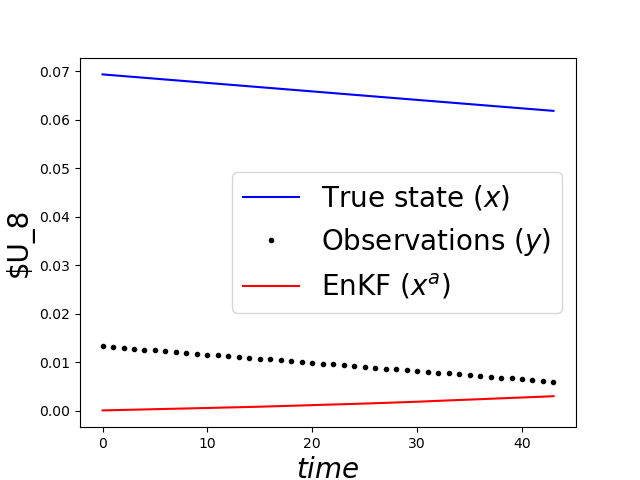
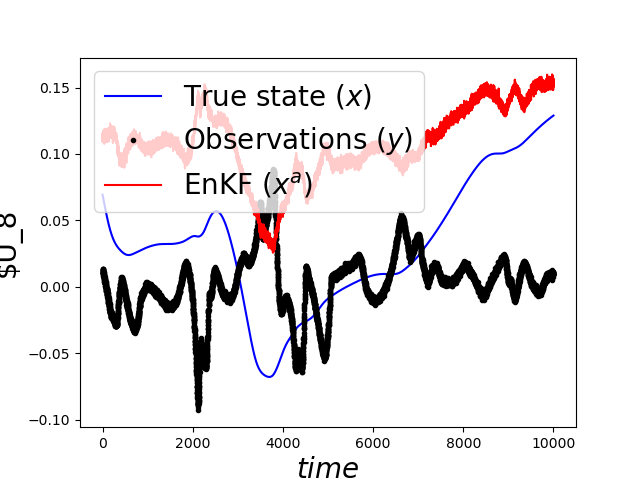
checker enKF

diff --git a/KF/enKF.py b/KF/enKF.py
@@ -18,7 +18,7 @@ from goy import GoyModel
 
 def filter_mode(X,mode_min:int,mode_max:int,t_min:int,ratio:float,seed):
     
-    np.random.seed(seed=seed)
+    #np.random.seed(seed=seed)
     X_subset = np.copy(X)
     X_subset[:,0:mode_min] = None #enlève les modes inférieurs à mode_min
     X_subset[0:t_min,:] = None #enlève la phase de stabilisation
@@ -82,10 +82,10 @@ def reduced_center(X,mean,std):
 
 
 PATH = "/home/s26calme/Documents/code_stage/GOY-main/"
-path_data = PATH + "data_test.dat"
+path_data = PATH + "data_test_precis.dat"
 SAVE = "/home/s26calme/Documents/code_stage/KF/"
 
-data =  np.loadtxt(path_data,dtype=np.float32) # charge le jeu de données
+data =  np.loadtxt(path_data,dtype=np.float64) # charge le jeu de données
 Nmax = np.shape(data)[0] # nombres de pas de temps
 debut = int(0.1*Nmax) # skip la phase de stabilisation
 
@@ -116,37 +116,56 @@ K = np.array([k0*lmb**i for i in range(22)],dtype=np.float32)
 #     plt.plot(y_obs[i,:],'*')
 #     plt.plot(Data_shell[:,i],'gray',alpha=0.5)
 #     plt.savefig(PATH + "ploty",dpi=300)
+
 shell_array = np.array(Data_shell)
-MS = np.array([(0.05**2)*np.mean(shell_array[:,k]**2) for k in range(44)])
+MS = np.array([(0.05**2)*np.mean(shell_array[:,k]**2 ) for k in range(0,44,2)])
+#MS = np.array([(0.05**2)*np.mean(shell_array[:,k]**2 + shell_array[:,k+1]**2) for k in range(44)]) # variance de l'observation pour chaque shell
 
 
 ### parameters
-n     = 44 # state size  on veut estimer les Un de 1 à 10 avec Re et Im donc 20 variables d'état
+n     = 44 # state size  on veut estimer les Un de 1 à 22 avec Re et Im donc 44 variables d'état
 p     = 12 # On observe Un n=5,6,7,8,9,10 avec Re et Im donc 12 variables d'observations 
 nb    = Npts # number of times
 time  = np.array(range(nb)) # time vector
 var_Q = 1.0e-10 # error variance of the model (in Kalman)
-var_R = 0.1 # error variance of the observations (in Kalman)
-x_0   = np.zeros((n)) # initial coundition (mean)
-P_0   = np.eye(n,n)*1.e-12 # initial coundition (covariance)
+#var_R = 0.1 # error variance of the observations (in Kalman)
+#x_0   = np.zeros((n)) # initial coundition (mean)
+x_0   = Data_shell[0,:] # initial coundition (mean) = première ligne du jeu de données
+P_0   = np.eye(n,n) # initial coundition (covariance)
+for i in range(22):
+    P_0[2*i,2*i] = MS[i]
+    P_0[2*i+1,2*i+1] = MS[i] # initial covariance = variance of each shell in the data
 
 
 ### variables
 
-m = MS[2*4:2*10]
+m = MS[4:10]
 R = np.eye(p,p)
 Q      = var_Q*np.eye(n,n)
-for i in range(p):
-    for j in range(p):
-        if i==j:
-            R[i,j] = m[i]
+for i in range(int(p/2)):
+    R[2*i,2*i] = m[i]
+    R[2*i+1,2*i+1] = m[i] # observation covariance = variance de chaque shell observé dans les données
 #R      = np.fill_diagonal(R,list(m[:]))#var_R*np.eye(p,p)
 
 ##############  noisy observations ##################
-y_obs = Data_shell.T  
-y_obs = y_obs[2*k_min_collocation:2*k_max_collocation,:]
-for t in range(Npts):
-    y_obs[:,t]  = y_obs[:,t] + np.random.multivariate_normal(np.zeros(p),R)
+y_obs = Data_shell.T.copy() # observations = données réelles  
+y_obs_ = y_obs[2*k_min_collocation:2*k_max_collocation,:]
+a = y_obs_.copy()
+
+# for t in range(Npts):
+#     y_obs_[:,t]  = y_obs_[:,t] + np.random.multivariate_normal(np.zeros(p),R)
+#y_obs = H @ Data_shell.T + np.random.multivariate_normal(np.zeros(p),R,size=(Npts,)).T # observations bruitées = H @ données réelles + bruit gaussien
+
+# for i in range(p):
+#     plt.figure()
+#     #plt.plot(y_obs_[i,:],'.k',alpha=0.2,label='Observations')
+#     plt.fill_between(time[0:nb], a[i,0:nb] - 1.96*np.sqrt(R[i,i]), a[i,0:nb] + 1.96*np.sqrt(R[i,i]), facecolor='red')
+#     plt.plot(a[i,:], 'b', label='True state')
+#     plt.xlabel('Time', size=20)
+#     plt.ylabel(f'$U_{2*(i+k_min_collocation//2)}$ (shell {i+k_min_collocation//2})', size=20)
+#     plt.legend(fontsize=20)
+#     plt.savefig(SAVE + f"fig{i}enKF")
+
 
 
 # ### true state and noisy observations
@@ -198,6 +217,7 @@ def NL(x_past_real,x_past_imag):
     return NL_re, NL_im
 
 
+######### paramètres du modèle pour l'intégration #############################
 TIME      = 1000.
 DT        = 1e-5
 FS        = 100.
@@ -228,7 +248,7 @@ def m_b(x_past,N_fs,n_steps_first,start=False,second = False,custom=False):
     else:
         # ligne i-1 → intègre N_fs-1 pas → arrive à t_i - dt
         if custom:
-            Xpp0,Ypp0,Xp0,Yp0 = model.init_fields(Xpp=x_past[0::2],Ypp=x_past[1::2])
+            Xpp0,Ypp0,Xp0,Yp0 = model.init_fields(Xpp=x_past[0,0::2],Ypp=x_past[0,1::2])
             (cur_Xpp, cur_Ypp), (cur_Xp, cur_Yp) = model.integrate(
                 Xpp0, Ypp0, Xp0, Yp0, n_steps=n_steps_first)
             return cur_Xpp,cur_Ypp,cur_Xp,cur_Yp
@@ -257,32 +277,37 @@ def m_step(Xpp, Ypp, Xp, Yp):
         Xpp, Ypp, Xp, Yp, n_steps=N_fs)
     return Xpp_new, Ypp_new, Xp_new, Yp_new
 
-j_ = 50
-nb_iter = 3
+############################### TEST ##############################################################
+
+j_ = 0 #np.random.randint(3,Npts-1001)
+nb_iter = 3000
 count_init   = int(TIME / DT)  
 n_steps_first = count_init % N_fs  
-series = np.zeros((n,nb_iter)).T
-series[0,:] = Data_shell[j_,:]
-series[1,:] = Data_shell[j_+1,:]#x_past[0,:]
+# series = np.zeros((n,nb_iter)).T
+# series[0,:] = Data_shell[j_,:]
+# series[1,:] = Data_shell[j_+1,:]#x_past[0,:]
 
 
 
 # for k in range(2,nb_iter):
-#     x_past = series[k-1:k,:].copy()
+#     x_past = series[k-2:k,:].copy()
     
-#     _,_,cur_Xp,cur_Yp = m_b(x_past,N_fs=999,n_steps_first=99,custom=True)
+#     _,_,cur_Xp,cur_Yp =m_step(Xpp=x_past[0,0::2],Ypp=x_past[0,1::2],Xp=x_past[1,0::2],Yp=x_past[1,1::2])#m_b(x_past,N_fs=999,n_steps_first=99,custom=True) #
 #     series[k, 0::2] = cur_Xp.copy()
 #     series[k, 1::2] = cur_Yp.copy()
 #     # print("serie:",series[k,0:2])
 
 # Rmse = np.sqrt(np.mean(Data_shell[j_:j_+nb_iter,:]-series)**2)
 
+# print(Rmse)
+# print(j_)
+
 # plt.figure()
 
 # for i in range(5):
 #      #plt.plot(np.abs(series[:,2*i]-Data_shell[:,2*i]))
-#      plt.plot(series[:,2*i],label=f"shell_encaps_{2*i}")
-#      plt.plot(Data_shell[j_:j_+nb_iter,2*i],label=f"shell_reel_{2*i}")
+#      plt.plot(series[:,2*i],label=f"shell_encaps_{2*i}",alpha=0.5)
+#      plt.plot(Data_shell[j_:j_+nb_iter,2*i],'--',label=f"shell_reel_{2*i}")
 #      plt.legend()
 #      plt.show()
 # plt.savefig("test")
@@ -292,6 +317,9 @@ series[1,:] = Data_shell[j_+1,:]#x_past[0,:]
 # for i in range(10):
 #      plt.plot(np.abs(base[2*i,:]-data[2*i,0:9999]))
 # plt.savefig("test_2")
+#####################################################################################################
+
+
 
 ### Generate observations and covariance
 def generate_observations(p, H):
@@ -305,7 +333,7 @@ def generate_observations(p, H):
 H = np.eye(44,44) #array([[1,0,0,0], [0,1,0,0]])
 H = H[2*k_min_collocation:2*k_max_collocation,:] # on observe que les modes de 5 à 10 avec Re et Im donc 12 variables d'observations
 
-
+y_obs = H @ Data_shell.T + np.random.multivariate_normal(np.zeros(p),R,size=(Npts,)).T
 
 ### Ensemble Kalman initialization
 Ne = 50                   # number of ensembles
@@ -320,16 +348,16 @@ x_f_enkf_tmp = np.zeros((n,Ne))
 y_f_enkf_tmp = np.zeros((p,Ne))
 # initial step
 
-ens_Xpp = np.zeros((Ne, n))
-ens_Ypp = np.zeros((Ne, n))
-ens_Xp  = np.zeros((Ne, n))
-ens_Yp  = np.zeros((Ne, n))
+ens_Xpp = np.zeros((Ne, int(n/2))) # tous les ensembles pour Xpp et Ypp == t-2
+ens_Ypp = np.zeros((Ne, int(n/2))) 
+ens_Xp  = np.zeros((Ne, int(n/2))) # tous les ensembles pour Xp et Yp == t-1
+ens_Yp  = np.zeros((Ne, int(n/2)))
 
 
-fens_Xpp = np.zeros((Ne, n))
-fens_Ypp = np.zeros((Ne, n))
-fens_Xp  = np.zeros((Ne, n))
-fens_Yp  = np.zeros((Ne, n))
+fens_Xpp = np.zeros((Ne, int(n/2))) # tous les ensembles pour Xpp et Ypp == t-2 apres intégration par le modèle
+fens_Ypp = np.zeros((Ne, int(n/2)))
+fens_Xp  = np.zeros((Ne, int(n/2))) # tous les ensembles pour Xp et Yp == t-1 apres intégration par le modèle
+fens_Yp  = np.zeros((Ne, int(n/2)))
 
 
 # condition initiales
@@ -345,15 +373,15 @@ j_start = 2
 
 amp = np.std(Data_shell, axis=0)
 
-nb = 44
+nb = 10000
 for i in range(Ne):
     x_a_enkf_tmp[:,i] = np.random.multivariate_normal(x_0, P_0)
     
-    noise = np.random.randn(n) * amp * 0.01   # perturbation 1%
-    ens_Xpp[i] = ref_Xpp + noise[0::2] * 0.1  # Xpp varie peu
-    ens_Ypp[i] = ref_Ypp + noise[1::2] * 0.1
-    ens_Xp[i]  = ref_Xp  + noise[0::2]
-    ens_Yp[i]  = ref_Yp  + noise[1::2]
+    #noise = np.random.randn(n) * amp * 0.01   # perturbation 1%
+    ens_Xpp[i] = ref_Xpp + np.random.multivariate_normal(x_0, P_0)[0::2] #+ noise[0::2] * 0.1  # Xpp varie peu
+    ens_Ypp[i] = ref_Ypp + np.random.multivariate_normal(x_0, P_0)[1::2] #+ noise[1::2] * 0.1
+    ens_Xp[i]  = ref_Xp  + np.random.multivariate_normal(x_0, P_0)[0::2] #+ noise[0::2]
+    ens_Yp[i]  = ref_Yp  + np.random.multivariate_normal(x_0, P_0)[1::2] #+ noise[1::2]
 
 x_a_enkf[:,0]   = np.mean(x_a_enkf_tmp,1) # initial state
 P_a_enkf[:,:,0] = np.cov(x_a_enkf_tmp)    # initial state covariance
@@ -372,8 +400,8 @@ for k in tqdm.tqdm(range(nb)): # forward in time #nb
 
         x_f_enkf_tmp[0::2,i] = Xp_n.T
         x_f_enkf_tmp[1::2,i] = Yp_n.T
-        _,_,forward_x,forward_y  = m_b(x_a_enkf_tmp[:,i].T,N_fs=999,n_steps_first=998,custom=True)
-        x_f_enkf_tmp[0::2,i],x_f_enkf_tmp[1::2,i] = forward_x.T,forward_y.T ### A CACHER
+        #_,_,forward_x,forward_y  = m_b(x_a_enkf_tmp[:,i].T,N_fs=999,n_steps_first=998,custom=True)
+        #x_f_enkf_tmp[0::2,i],x_f_enkf_tmp[1::2,i] = forward_x.T,forward_y.T ### A CACHER
         x_f_enkf_tmp[:,i] += np.random.multivariate_normal(np.zeros(n), Q)
         y_f_enkf_tmp[:,i] = H @ x_f_enkf_tmp[:,i] + np.random.multivariate_normal(np.zeros(p), R) ### A CACHER
     

diff --git a/KF/test/test.py b/KF/test/test.py
@@ -5,15 +5,15 @@ model = GoyModel()         # paramètres identiques au code original
 sh = model.shell_wavenumbers()
 
 # conditions initiales
-# Xpp = sh**(-1/3)
-# Ypp = np.full(model.N, 1e-4)
-# Xp, Yp = Xpp.copy(), Ypp.copy()
+Xpp = sh**(-1/3)
+Ypp = np.full(model.N, 1e-4)
+Xp, Yp = Xpp.copy(), Ypp.copy()
 n_step = 100100
 state = np.zeros((n_step,44))
 
 Xpp, Ypp, Xp, Yp = model.init_fields()
 
-data  = np.loadtxt("/home/s26calme/Documents/code_stage/GOY-main/data_test_precis.dat")
+data  = np.loadtxt("/home/s26calme/Documents/code_stage/GOY-main/data_test_precis.dat",dtype=np.float32)
 X_ref = data[:, 0::2]   # (n_snap, N)
 Y_ref = data[:, 1::2]
 
@@ -84,7 +84,7 @@ for i in range(2,n_step):
 
     (Xp_out, Yp_out), (state[i,0::2],state[i,1::2]) = model.integrate(state[i-2,0::2], state[i-2,1::2],
                 state[i-1,0::2], state[i-1,1::2],  # ← 1::2 pour Y
-                n_steps=1000)
+                n_steps=999)
 ecart_x = state[:,0::2]-X_ref
 ecart_y = state[:,1::2]-Y_ref
 

diff --git a/KF/run_goy.py b/KF/run_goy.py
@@ -20,7 +20,7 @@ FORCE     = 0.005
 N_FORCE   = 4
 FORCE_RND = 0
 
-REF_FILE  = "/home/s26calme/Documents/code_stage/GOY-main/data_test.dat"
+REF_FILE  = "/home/s26calme/Documents/code_stage/GOY-main/data_test_precis.dat"
 
 # ── replication exacte des calculs entiers du code C ─────────────────────────
 count_init   = int(TIME / DT)           # 99999999
@@ -63,11 +63,11 @@ for i in range(1, N_rows):
 
 # ── comparaison avec le fichier de reference ──────────────────────────────────
 try:
-    ref = np.loadtxt(REF_FILE)
+    ref = np.loadtxt(REF_FILE,dtype=np.float64)
     
     diff_X = state[:, 0::2] - ref[:, 0::2]
     diff_Y = state[:, 1::2] - ref[:, 1::2]
-    for i in range(22):
+    for i in range(4):
         # plt.figure()
         # plt.plot(diff_X[:,i])
         # plt.plot(diff_Y[:,i])

diff --git a/KF/test/test_point.py b/KF/test/test_point.py
@@ -4,7 +4,7 @@ import matplotlib.pyplot as plt
 
 model = GoyModel(force_rnd=0)
 
-ref = np.loadtxt("/home/s26calme/Documents/code_stage/GOY-main/data_test_precis.dat")
+ref = np.loadtxt("/home/s26calme/Documents/code_stage/GOY-main/data_test_precis.dat",dtype=np.float32)
 
 def init(x_past,N_fs,n_steps_first):
     # ── choix du point de départ ──────────────────────────────────────────────────
@@ -40,7 +40,7 @@ def init(x_past,N_fs,n_steps_first):
 i=5000
 N_fs          = 999
 Xpp,Ypp,Xp,Yp = init(ref[i-2:i],N_fs=N_fs,n_steps_first=100)
-n_pred = 10  
+n_pred = 10000 
 # ── vérification que Xp coïncide bien avec ref[i] ────────────────────────────
 print(f"Vérification ligne {i}:")
 print(f"  |Xp - ref[i]|_max = {np.max(np.abs(Xp - ref[i, 0::2])):.3e}")

diff --git a/KF/test/goy.py b/KF/test/goy.py
@@ -147,13 +147,13 @@ class GoyModel:
         Ypp = _np.full(self.N, 1e-4,dtype=np.float64)
 
         # need A[] – recompute here (stored in C side, replicate in Python)
-        A = _np.exp(-self._nu * sh**2 * self.dt)
+        A = _np.exp(-self._nu * sh**2 * self.dt,dtype=np.float64)
 
         # call lib to get NX/NY for one step (hack: integrate 1 step from same state,
         # but we only need NXpp → compute manually in Python with same formulas)
         lmb = self._lmb; eps = self._eps; N = self.N
-        A2 = _np.full(N, -eps/lmb)
-        A3 = _np.full(N, -(1-eps)/(lmb**2))
+        A2 = _np.full(N, -eps/lmb,dtype=np.float64)
+        A3 = _np.full(N, -(1-eps)/(lmb**2),dtype=np.float64)
 
         def _NX(ax, ay):
             res = _np.zeros(N,dtype=np.float64)

diff --git a/PINNs/test.py b/PINNs/test.py
@@ -1,0 +1,25 @@
+import numpy as np
+
+# Define computional domain
+bc1_coords = np.array([[0.0],
+                       [0.0]])
+
+bc2_coords = np.array([[1.0],
+                       [1.0]])
+
+dom_coords = np.array([[0.0],
+                       [1.0]])
+
+# Training data on u(x) -- Dirichlet boundary conditions
+
+nn  = 100
+
+X_bc1 = dom_coords[0, 0] * np.ones((nn // 2, 1))
+X_bc2 = dom_coords[1, 0] * np.ones((nn // 2, 1))
+X_u = np.vstack([X_bc1, X_bc2])
+
+X_r = np.linspace(dom_coords[0, 0],
+                  dom_coords[1, 0], nn)[:, None]
+
+print(X_bc1)
+print(X_bc2)
